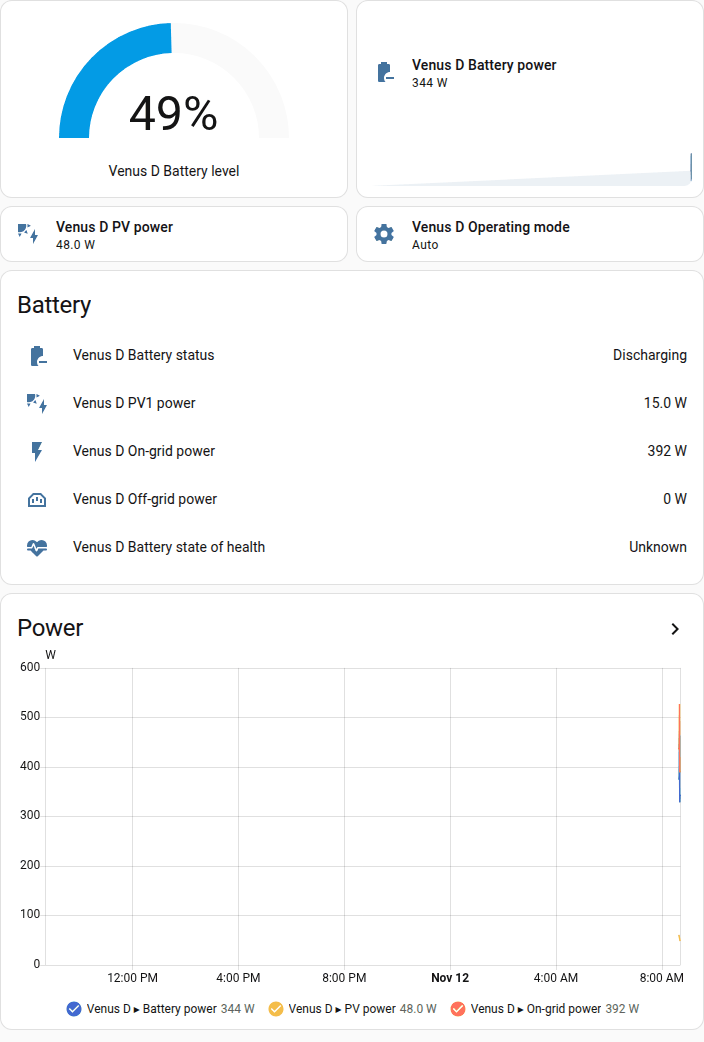
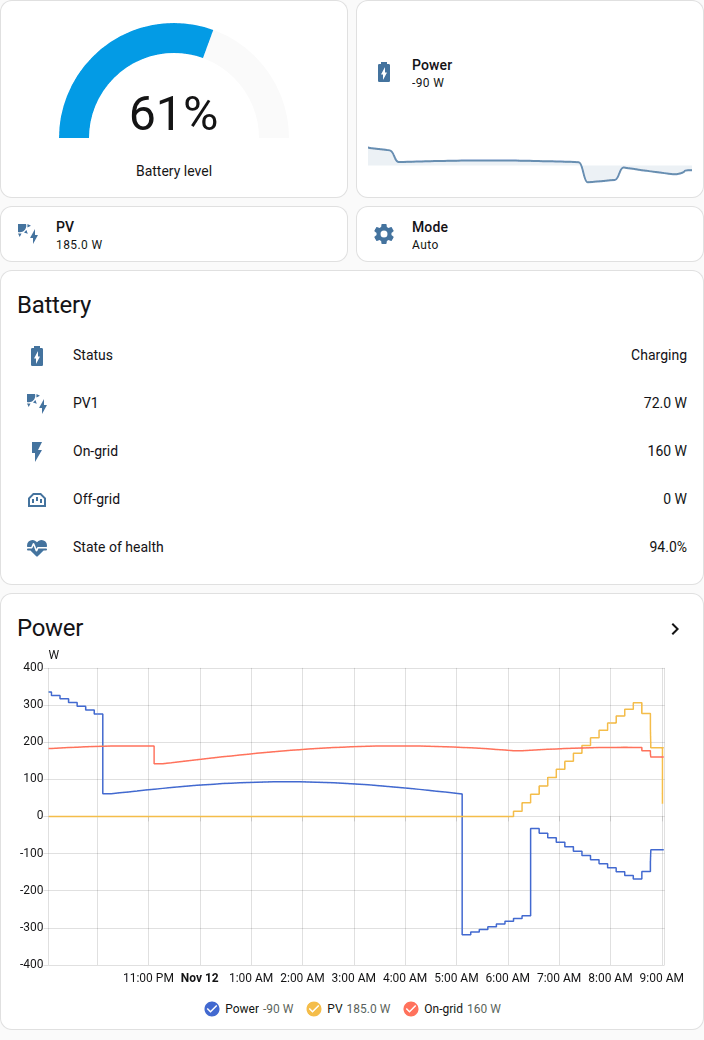
Shorten dashboard card names and show a 12-hour power history.
Optional name overrides keep labels readable on a phone. The history graph uses 12 hours so a charge and discharge curve fills the card, and the guide says state of health stays unknown until a full run.

diff --git a/docs/guide/dashboard-cards.md b/docs/guide/dashboard-cards.md
@@ -67,12 +67,12 @@ No YAML is required. On a dashboard, choose **Edit dashboard**, then **Add card*
 3. Add a **Tile**. Choose **Operating mode**. Selecting the card opens the mode list.
 4. On Venus A or Venus D, add another **Tile** and choose **PV power**. Skip this on Venus E, Venus C, and Venus E mini. Those models have no solar entities, and the card would stay empty.
 5. Add an **Entities** card. Add **Battery status**, **On-grid power**, **Off-grid power**, and **Battery state of health**.
-6. Add a **History graph**. Add **Battery power**, and **PV power** when the battery has solar. Set **Hours to show** to `24`.
+6. Add a **History graph**. Add **Battery power**, and **PV power** when the battery has solar. Set **Hours to show** to `12`.
 7. Add a card, search for `Marstek`, and pick **Marstek battery health**. Choose the battery. The editor can also set a title and which tab opens first. Details are in [Battery health](../usable-capacity.md#add-the-cards-to-a-dashboard-you-already-have).
 
-<img src="../screenshots/dashboard-cards-editor.png" alt="Gauge card configuration in the visual editor. Battery level is selected, the minimum is 0, the maximum is 100, and a live preview shows the gauge." width="720" />
+<img src="../screenshots/dashboard-cards-editor.png" alt="Gauge card configuration in the visual editor. Battery level is selected, the name is Battery level, the minimum is 0, the maximum is 100, and a live preview shows the gauge." width="720" />
 
-Leave the card name blank when you want the label to follow your Home Assistant language. A name you type stays in that language.
+The `name` fields in the examples are optional. A short name keeps the label readable on a phone. Without one, every card repeats the device name, such as **Venus E (3.0) Battery level**, and that gets cut off. Leave `name` out when you want the full entity name in your Home Assistant language. A name you type stays in that language.
 
 Temperature and Wi-Fi are not in the steps above because those sensors start disabled. Turn them on first, then add them to the entities card. See [Temperature and Wi-Fi](#temperature-and-wi-fi).
 
@@ -80,7 +80,7 @@ A [sections view](https://www.home-assistant.io/dashboards/views/) stacks cards 
 
 ## Venus E layout
 
-Venus E has no PV sensors. This stack is one card: a gauge beside battery power, then mode beside status, then the detail list and a day of power history. Two columns stay readable on a phone. A third column gets cramped, so this layout stops at two.
+Venus E has no PV sensors. This stack is one card: a gauge beside battery power, then mode beside status, then the detail list and 12 hours of power history. Two columns stay readable on a phone. A third column gets cramped, so this layout stops at two.
 
 Paste it from the dashboard menu under **Raw configuration editor**, or add the same cards one by one with the visual editor.
 
@@ -93,38 +93,50 @@ cards:
     cards:
       - type: gauge
         entity: sensor.<battery>_battery_level
+        name: Battery level
         min: 0
         max: 100
       - type: tile
         entity: sensor.<battery>_battery_power
+        name: Power
         features:
           - type: trend-graph
+            hours_to_show: 12
   - type: grid
     columns: 2
     square: false
     cards:
       - type: tile
         entity: select.<battery>_operating_mode
+        name: Mode
       - type: tile
         entity: sensor.<battery>_battery_status
+        name: Status
   - type: entities
     title: Battery
     entities:
       - entity: sensor.<battery>_on_grid_power
+        name: On-grid
       - entity: sensor.<battery>_off_grid_power
+        name: Off-grid
       - entity: sensor.<battery>_battery_state_of_health
+        name: State of health
       # Enable these on the device page first, then uncomment.
       # - entity: sensor.<battery>_battery_temperature
       # - entity: sensor.<battery>_wifi_signal_strength
   - type: history-graph
     title: Power
-    hours_to_show: 24
+    hours_to_show: 12
     entities:
       - entity: sensor.<battery>_battery_power
+        name: Power
       - entity: sensor.<battery>_on_grid_power
+        name: On-grid
 ```
 
-<img src="../screenshots/dashboard-cards-venus-e.png" alt="Venus E layout. A gauge shows 45 percent, battery power is 95 W, operating mode is Auto, and battery status is Discharging. State of health is unknown." width="704" />
+<img src="../screenshots/dashboard-cards-venus-e.png" alt="Venus E layout with short names. The gauge, power, mode, and status cards no longer repeat the device name. The history graph shows 12 hours of charge and discharge." width="704" />
+
+**State of health** on the list is the estimate. A battery that has not finished a long charge run and a long discharge run stays **Unknown**. The picture shows a pack that already has an estimate.
 
 The gauge, tile, entities, and history cards are the built-in ones: [gauge](https://www.home-assistant.io/dashboards/gauge/), [tile](https://www.home-assistant.io/dashboards/tile/), [entities](https://www.home-assistant.io/dashboards/entities/), and [history graph](https://www.home-assistant.io/dashboards/history-graph/).
 
@@ -141,41 +153,54 @@ cards:
     cards:
       - type: gauge
         entity: sensor.<battery>_battery_level
+        name: Battery level
         min: 0
         max: 100
       - type: tile
         entity: sensor.<battery>_battery_power
+        name: Power
         features:
           - type: trend-graph
+            hours_to_show: 12
   - type: grid
     columns: 2
     square: false
     cards:
       - type: tile
         entity: sensor.<battery>_pv_power
+        name: PV
       - type: tile
         entity: select.<battery>_operating_mode
+        name: Mode
   - type: entities
     title: Battery
     entities:
       - entity: sensor.<battery>_battery_status
+        name: Status
       - entity: sensor.<battery>_pv1_power
+        name: PV1
       - entity: sensor.<battery>_on_grid_power
+        name: On-grid
       - entity: sensor.<battery>_off_grid_power
+        name: Off-grid
       - entity: sensor.<battery>_battery_state_of_health
+        name: State of health
       # Enable these on the device page first, then uncomment.
       # - entity: sensor.<battery>_battery_temperature
       # - entity: sensor.<battery>_wifi_signal_strength
   - type: history-graph
     title: Power
-    hours_to_show: 24
+    hours_to_show: 12
     entities:
       - entity: sensor.<battery>_battery_power
+        name: Power
       - entity: sensor.<battery>_pv_power
+        name: PV
       - entity: sensor.<battery>_on_grid_power
+        name: On-grid
 ```
 
-<img src="../screenshots/dashboard-cards-venus-d.png" alt="Venus A and Venus D layout on a Venus D. The second row is PV power and operating mode. The list includes PV1 power. State of health is unknown." width="704" />
+<img src="../screenshots/dashboard-cards-venus-d.png" alt="Venus A and Venus D layout on a Venus D, with short names. PV power sits beside mode, and the history graph includes solar over 12 hours." width="704" />
 
 ## Temperature and Wi-Fi
 
@@ -220,31 +245,41 @@ sections:
     cards:
       - type: gauge
         entity: sensor.<battery>_battery_level
+        name: Battery level
         min: 0
         max: 100
       - type: tile
         entity: sensor.<battery>_battery_power
+        name: Power
         features:
           - type: trend-graph
+            hours_to_show: 12
       - type: tile
         entity: select.<battery>_operating_mode
+        name: Mode
   - type: grid
     cards:
       - type: entities
         title: Battery
         entities:
           - entity: sensor.<battery>_battery_status
+            name: Status
           - entity: sensor.<battery>_on_grid_power
+            name: On-grid
           - entity: sensor.<battery>_off_grid_power
+            name: Off-grid
           - entity: sensor.<battery>_battery_state_of_health
+            name: State of health
       - type: history-graph
         title: Power
-        hours_to_show: 24
+        hours_to_show: 12
         entities:
           - entity: sensor.<battery>_battery_power
+            name: Power
           - entity: sensor.<battery>_on_grid_power
+            name: On-grid
 ```
 
 On Venus A or Venus D, add a tile for `sensor.<battery>_pv_power` in the first section and add that same entity to the history graph.
 
-<img src="../screenshots/dashboard-cards-mobile.png" alt="The Venus E sections view at phone width, about 390 pixels. The gauge is full width. Battery power and operating mode sit side by side, with names shortened to fit." width="390" />
+<img src="../screenshots/dashboard-cards-mobile.png" alt="The Venus E sections view at phone width, about 390 pixels. Short names keep Power, Mode, and State of health on one line." width="390" />

diff --git a/README.md b/README.md
@@ -95,17 +95,22 @@ type: vertical-stack
 cards:
   - type: gauge
     entity: sensor.<battery>_battery_level
+    name: Battery level
     min: 0
     max: 100
   - type: tile
     entity: sensor.<battery>_battery_power
+    name: Power
   - type: tile
     entity: select.<battery>_operating_mode
+    name: Mode
 ```
+
+`name` is optional. It keeps the label short. Leave it out to use the full entity name.
 
 The Venus A layout, the history graph, and the visual-editor steps are in [Dashboard cards](docs/guide/dashboard-cards.md).
 
-<img src="docs/screenshots/dashboard-cards-venus-e.png" alt="Venus E live dashboard: state of charge gauge, battery power, operating mode Auto, and a power history graph." width="640" />
+<img src="docs/screenshots/dashboard-cards-venus-e.png" alt="Venus E live dashboard with short names: battery level, power, mode, and 12 hours of charge and discharge." width="640" />
 
 ## Requirements
 
